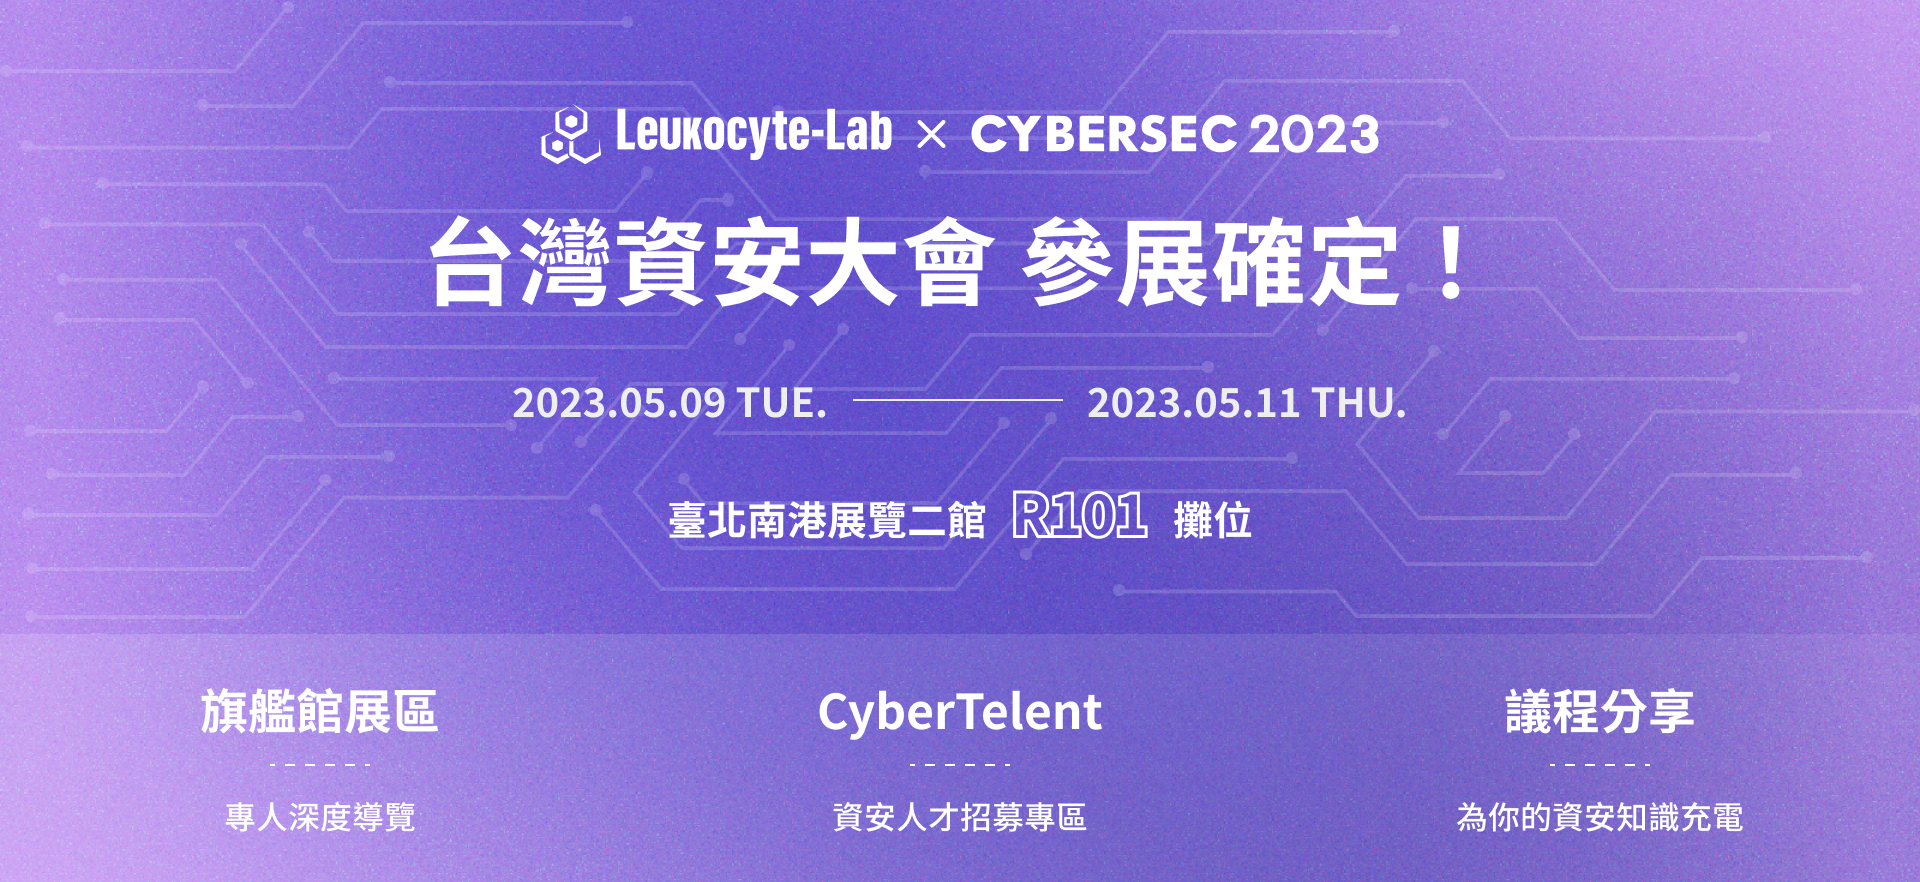
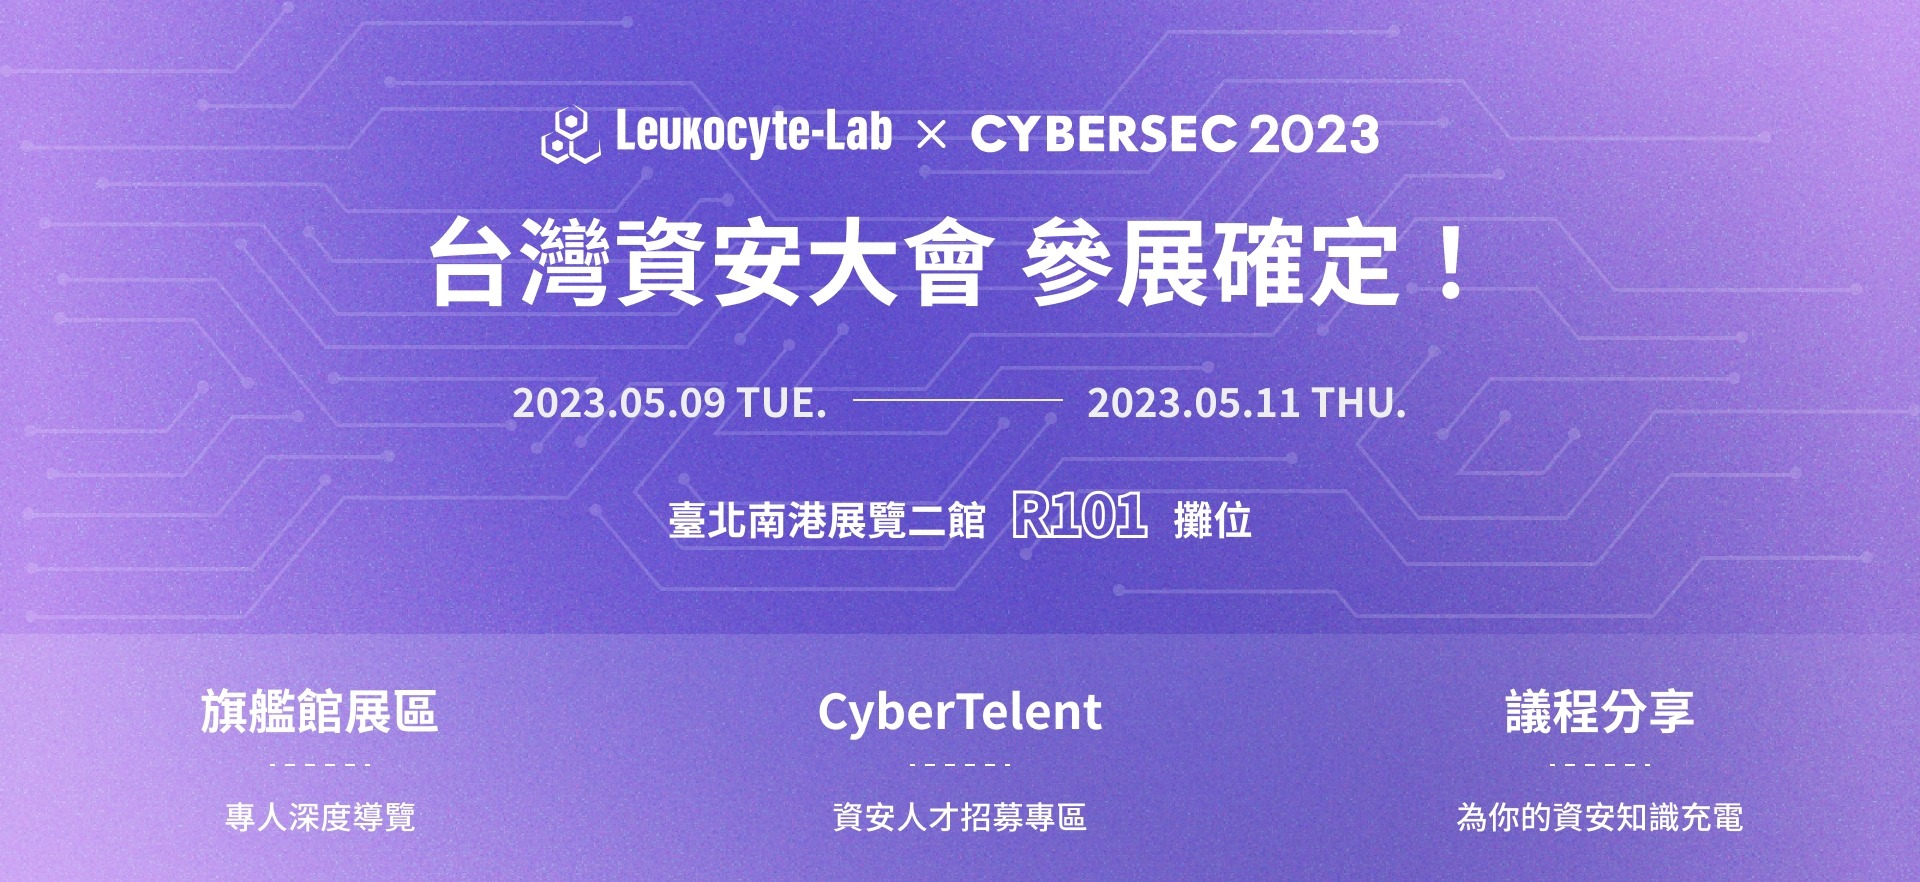
perf: Optimize assets.

diff --git a/src/components/Layout/MainBanner.vue b/src/components/Layout/MainBanner.vue
@@ -65,7 +65,7 @@ const introductions = [
     justify-content: center;
     align-items: center;
     width: 100%;
-    background-image: url('@/assets/images/material/texture.png');
+    background-image: url('@/assets/images/material/texture.jpg');
     background-size: cover;
     background-position: center;
     overflow: hidden;
